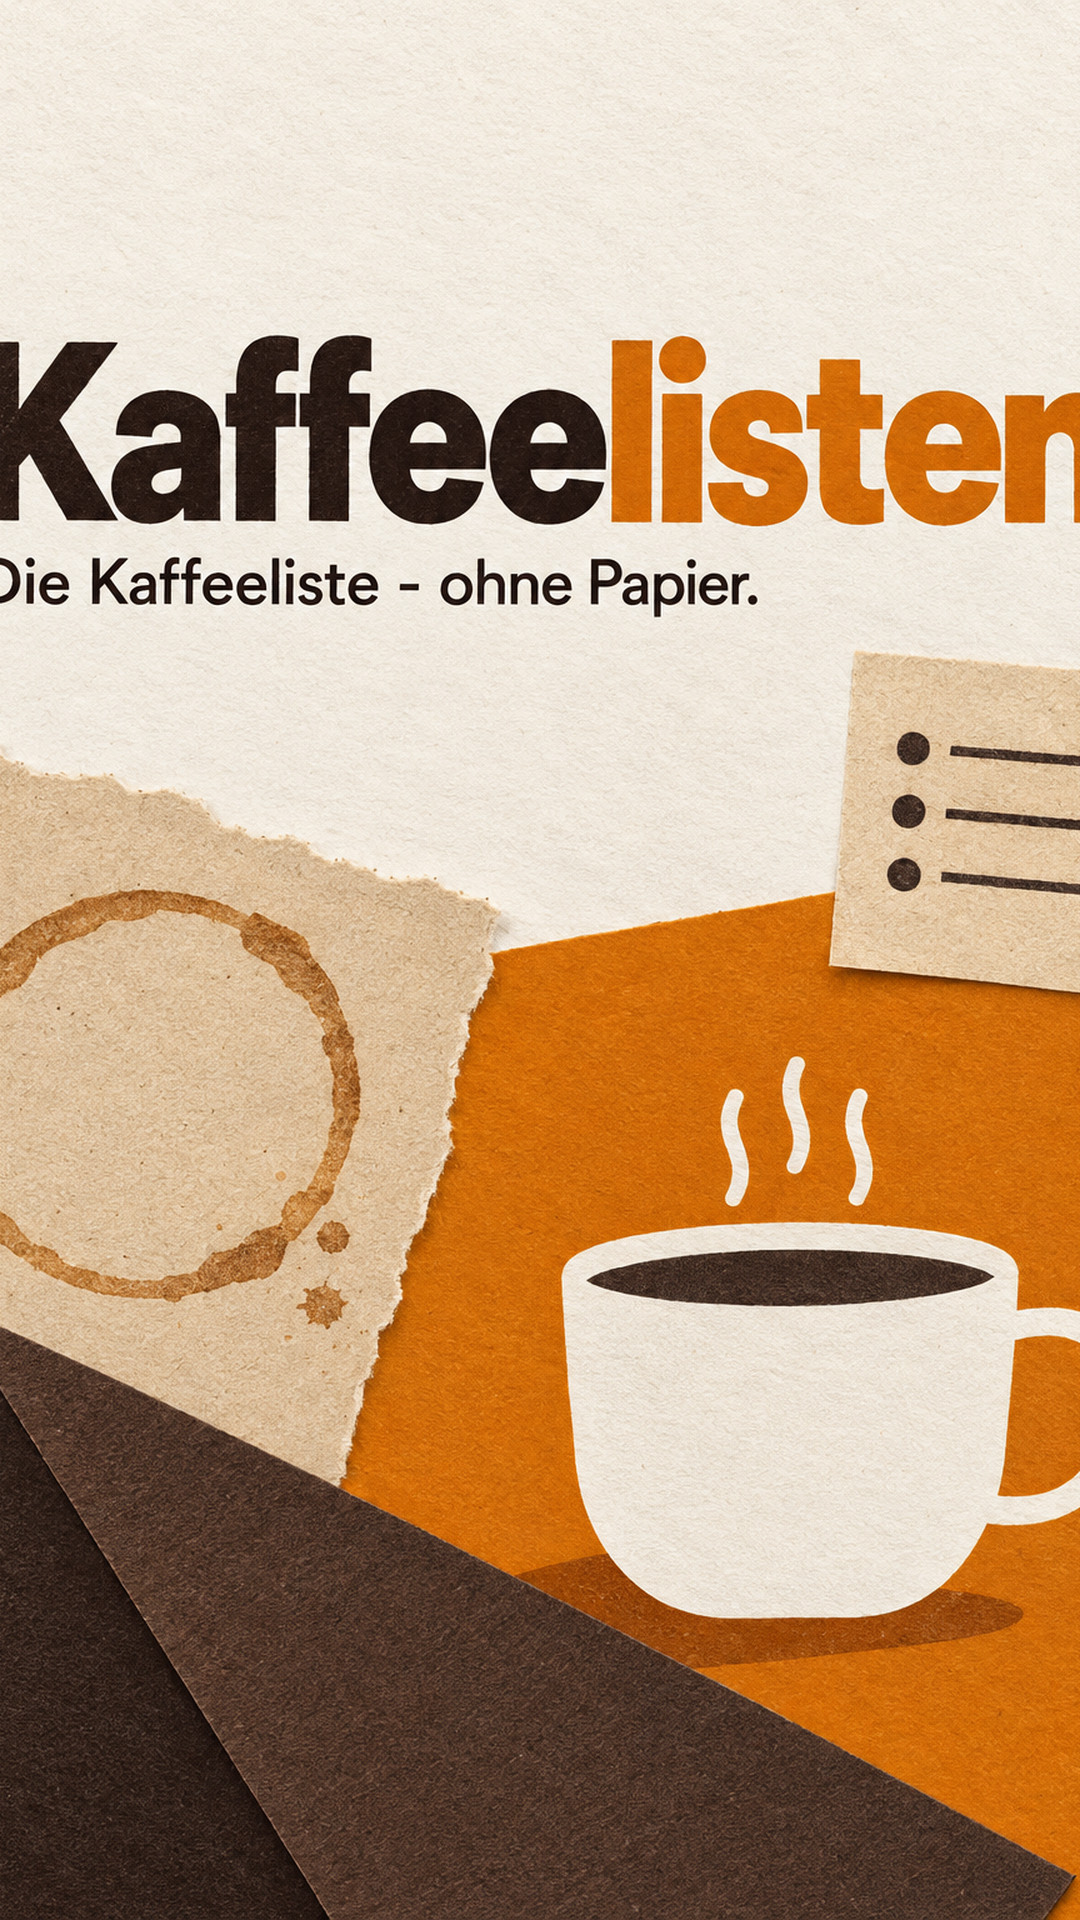
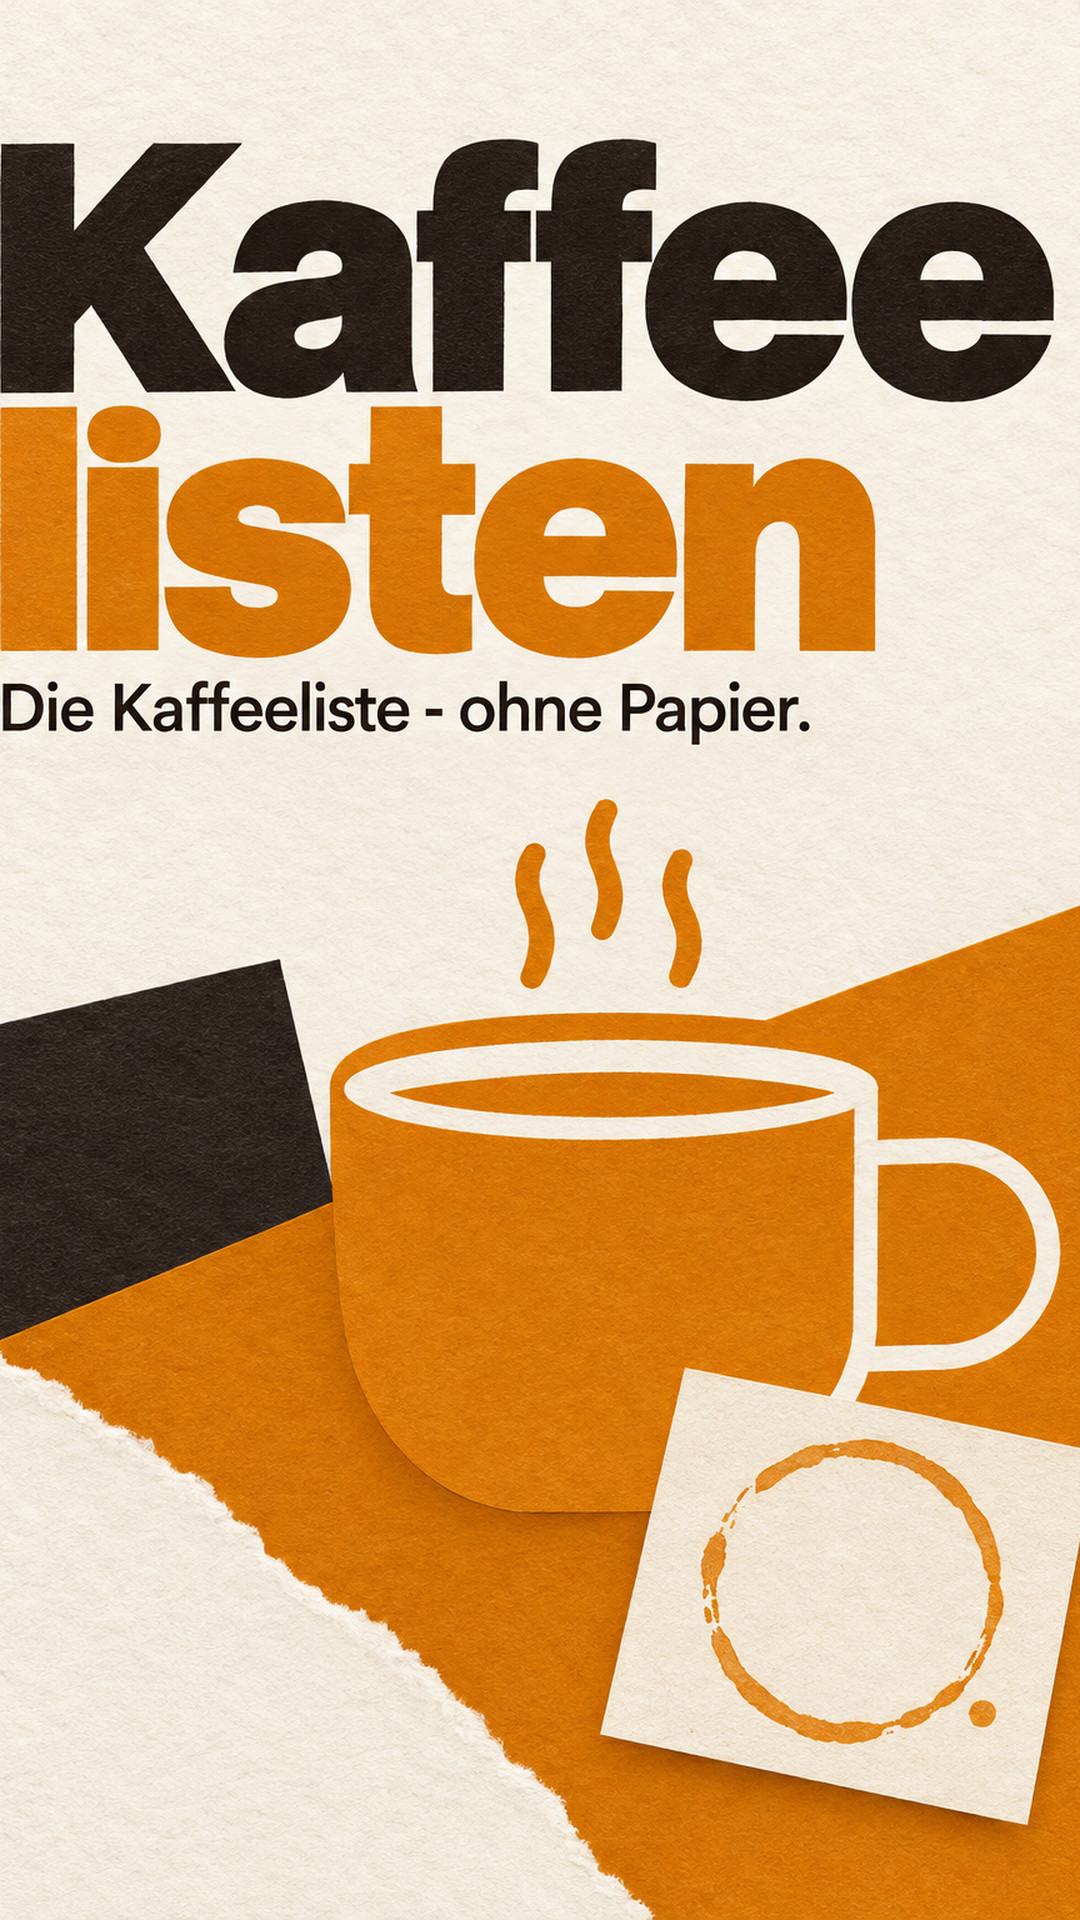
fix(brand): dedicated plates for the 3:1 and 9:16 families
The 3:1 surfaces were cut from a plate briefed for a thinner band, leaving dead
margins; the story crop clipped the wordmark at both edges. Adds a wide3 format
briefed for the middle half, a stacked two-line lockup for tall surfaces, and a
contact sheet so a round is proofed before it ships.

diff --git a/brand/tools/gen_texture.py b/brand/tools/gen_texture.py
@@ -36,8 +36,10 @@ def build_prompt(fmt: str, theme: str) -> str:
     f = CFG["formats"][fmt]
     parts = []
     # Lettering leads: a long "no text" tail at the end suppresses it entirely.
-    if CFG.get("lettering") and f.get("lettered", True):
-        parts.append(CFG["lettering"])
+    if f.get("lettered", True):
+        key = "lettering_stacked" if f.get("stacked") else "lettering"
+        if CFG.get(key):
+            parts.append(CFG[key])
     parts += [CFG["base"], f["composition"], CFG["palette_rule"]]
     if CFG["themes"].get(theme):
         parts.append(CFG["themes"][theme])

diff --git a/brand/BRAND.md b/brand/BRAND.md
@@ -29,6 +29,16 @@ half and the amber still identifies you.
 
 Beneath it, smaller and lighter: *Die Kaffeeliste – ohne Papier.*
 
+**On tall or narrow surfaces it stacks**, left-aligned, tight leading:
+
+```
+Kaffee      ← near-black
+listen      ← amber
+```
+
+Two lines, still one word. Use the stacked form wherever a single line would have to shrink to
+fit — stories, portrait posts, anything roughly 1:1 or taller.
+
 **Never** break the word with a space or a hyphen, recolour either half, set it in a light weight,
 or letterspace it loosely. It is one word, heavy, tight.
 
@@ -110,8 +120,18 @@ export OPENAI_API_KEY=...          # dotPrivate/.env
 python -I tools/gen_texture.py <format> [theme] [n] [round]
 ```
 
-Formats are `banner`, `wide`, `ultrawide`, `square`, `portrait` — each one a composition brief,
-not just a size. Candidates land in `out/`, metadata already stripped.
+Formats are composition briefs, not just sizes. The API only returns 1:1, 3:2 and 2:3, so each
+one describes **where in the frame the composition must sit** for its family of crops:
+
+| Format | Brief | Feeds |
+|---|---|---|
+| `banner` | Calm left half, art in the right half | social preview, og, LinkedIn post, print |
+| `wide3` | Everything inside the **middle half**, edge to edge | the 3:1 family: README, X header, email |
+| `ultrawide` | Everything inside the **middle quarter** | LinkedIn cover, 5.9:1 |
+| `square` | Lettering across the middle, art around it | square posts |
+| `portrait` | **Stacked** lockup, side margins kept clear | stories, 9:16 |
+
+Candidates land in `out/`, metadata already stripped.
 
 **2 · Choose.** Look at the candidates and copy the one you want to `plates/<format>.png`.
 Nothing picks for you, and that is deliberate.
@@ -132,9 +152,18 @@ the steam. Fitting it instead, with paper margins, shrank the art to a stamp in 
 answer was neither: a dedicated **`ultrawide`** format whose brief puts the whole composition
 inside the middle quarter of the frame, so the crop is full-bleed and nothing is squeezed.
 
-**The rule: when a surface does not fit, change the generation brief, not the crop.** `fit` mode
-exists in `surfaces.py` for emergencies, and the result is always worse than a plate generated for
-the shape.
+**The rule: when a surface does not fit, change the generation brief, not the crop.** That is why
+`wide3` and `ultrawide` exist as separate formats rather than as different crops of one plate.
+
+`surfaces.py` has two modes. **`cover`** fills the frame and trims the rest; it is the default.
+**`fit`** scales the whole composition down and pads with the plate's own paper — only acceptable
+when the surface ratio is *close* to the plate's, where the padding reads as a deliberate margin.
+At an extreme gap it shrinks the art to a stamp in a dead field, which is worse than any crop.
+
+The same lesson applied vertically: a 9:16 story cut from a full-width portrait plate clipped the
+wordmark at both edges. The fix was not a different crop but a brief that keeps the lettering
+inside the central three quarters of the width, plus the stacked lockup so it does not need the
+full width in the first place.
 
 ---
 
@@ -157,6 +186,16 @@ Every one is cut from a plate by `surfaces.py`, listed with its use in `tools/su
 
 JPEG wherever a platform caps the file size or the asset is a photograph-like texture; PNG for
 print. `surfaces.py` steps the JPEG quality down until it is under 1 MB.
+
+**Proof the round before shipping it:**
+
+```bash
+cd <product repo> && cp <brand>/tools/contact_sheet.mjs ./sheet.tmp.mjs
+CHROMIUM_PATH=... node ./sheet.tmp.mjs <brand> [theme] && rm ./sheet.tmp.mjs
+```
+
+It writes `contact-sheet.png` — every surface at its real ratio with its size and its use, which
+is how a bad crop gets caught before it reaches a profile page.
 
 ## Themed variants
 
